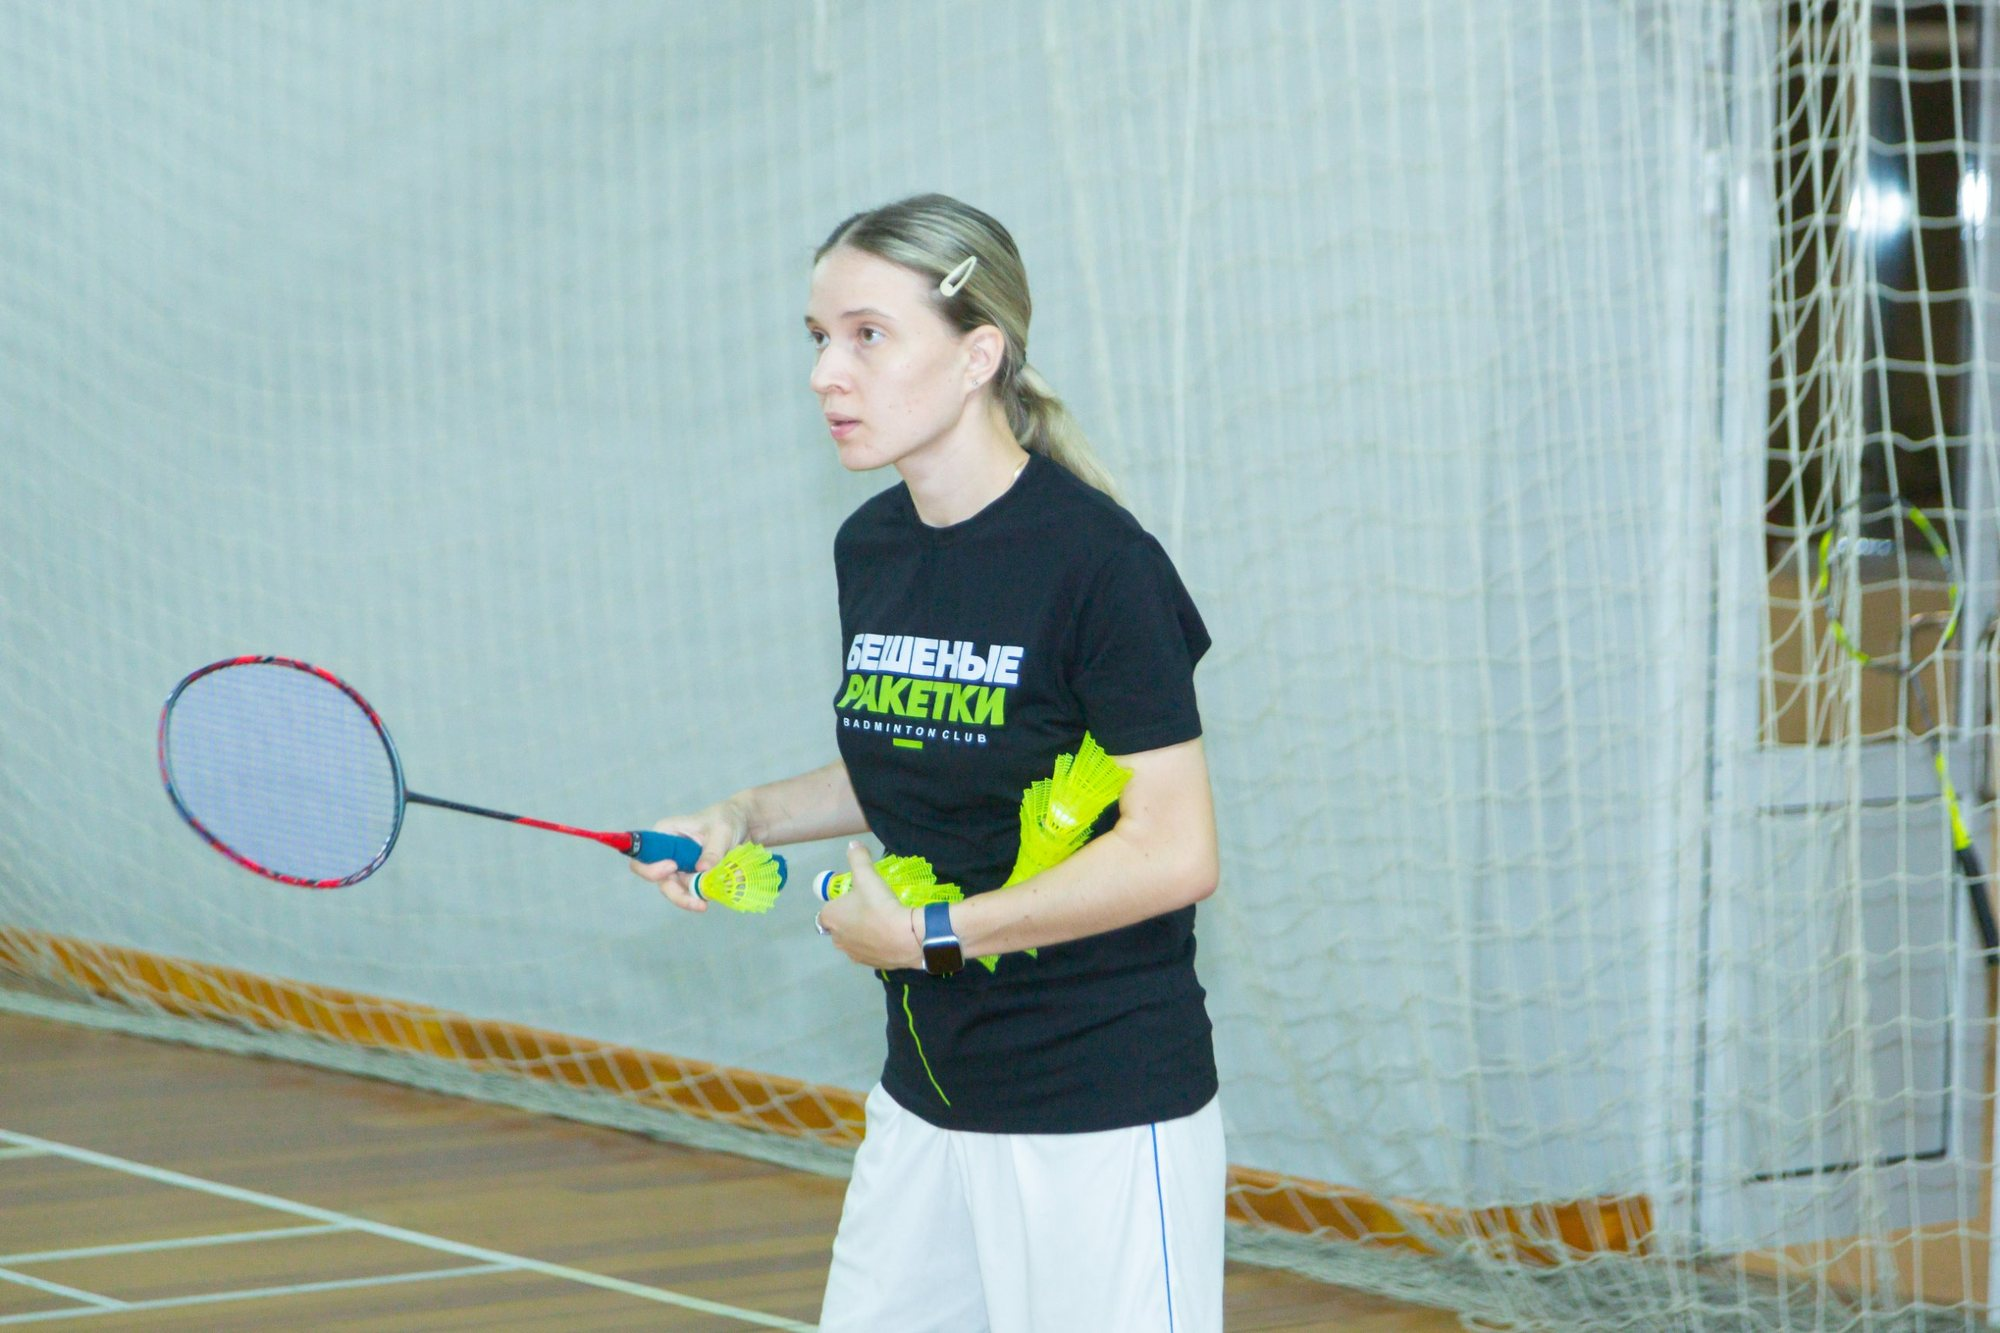
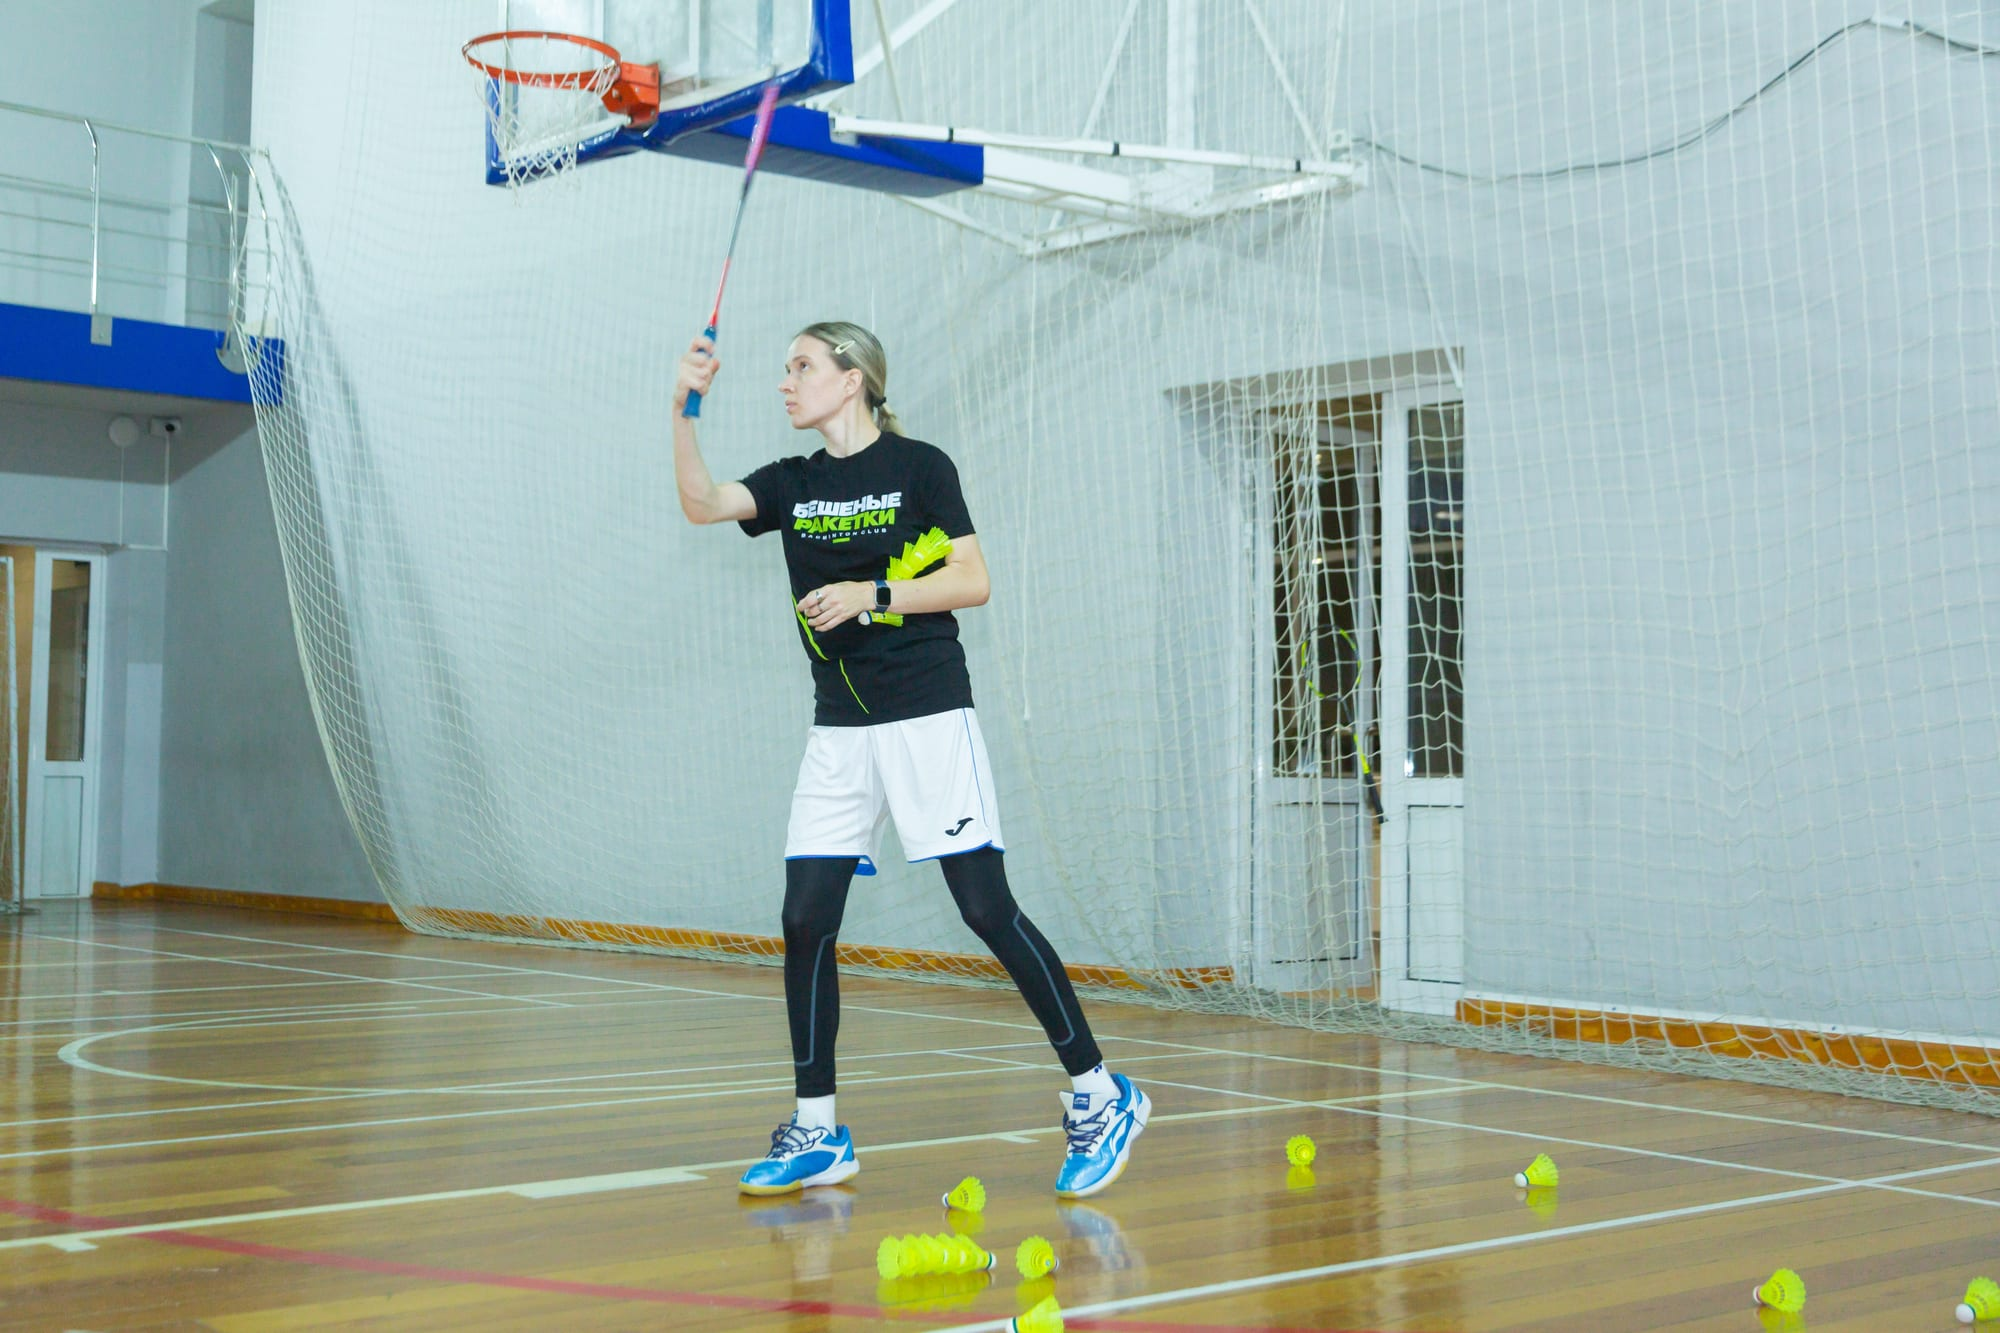
update photos

diff --git a/site/js/app.js b/site/js/app.js
@@ -852,7 +852,7 @@
 
   var STRIP_SPEED = 28;        // пикселей в секунду
   var STRIP_RESUME_MS = 3500;  // через сколько продолжить после ручного листания
-  var STRIP_MAX = 18;          // сколько фото в ленте (каждый раз случайные)
+  var STRIP_MAX = 18;          // сколько фото в ленте, если она собирается из фото площадок
 
   function stripItem(p, index, clone) {
     return '<a class="strip__item' + (clone ? ' is-clone' : '') + '" href="' + safeUrl(p.full) + '" data-gallery="strip" data-index="' + index + '"' +
@@ -875,9 +875,10 @@
   function renderStrip(block) {
     var host = q('[data-strip]');
     if (!host) return;
-    // каждый раз в новом порядке и не больше STRIP_MAX — фото площадок много, страница не должна тяжелеть
-    var photos = shuffle(list(block && block.photos).filter(function (p) { return safeUrl(p.src) && safeUrl(p.full); }))
-      .slice(0, STRIP_MAX);
+    var photos = list(block && block.photos).filter(function (p) { return safeUrl(p.src) && safeUrl(p.full); });
+    // фото ленты из админки — как есть и в том порядке; собранные из фото площадок —
+    // каждый раз случайные и не больше STRIP_MAX, чтобы страница не тяжелела
+    if (!(block && block.custom)) photos = shuffle(photos).slice(0, STRIP_MAX);
 
     host.innerHTML = photos.map(function (p, index) { return stripItem(p, index, false); }).join('');
 

diff --git a/README.md b/README.md
@@ -199,9 +199,9 @@ npm run preview    # то же, но версия для публикации и
 если открыть `dist/index.html` двойным кликом (как файл), плитки могут не загрузиться — смотрите
 через `npm run preview` (http://localhost:8000). На сайте всё работает. Те же координаты уходят в разметку schema.org (`geo`) — это помогает в поиске по картам.
 
-**Лента фото** под первым экраном собирается сама из фото площадок — все, кроме первого (общего);
-в браузере при каждом заходе в ней 18 случайных (чтобы страница не тяжелела от десятков фото). В админке «Лента фото» →
-«Ещё фото в ленту» — для кадров не про конкретный зал (турниры, праздники); там же можно скрыть ленту.
+**Лента фото** под первым экраном — «Лента фото» → **Фото ленты** в админке: ровно эти фото и в этом
+порядке (файлы лежат в `site/media/strip/`); там же можно скрыть ленту. Если список пуст, лента собирается сама из фото площадок — все, кроме первого (общего),
+и в браузере при каждом заходе в ней 18 случайных.
 
 Фото можно
 загружать как есть — сборка (`tools/build-content.mjs`, библиотека `sharp`) делает из каждого
